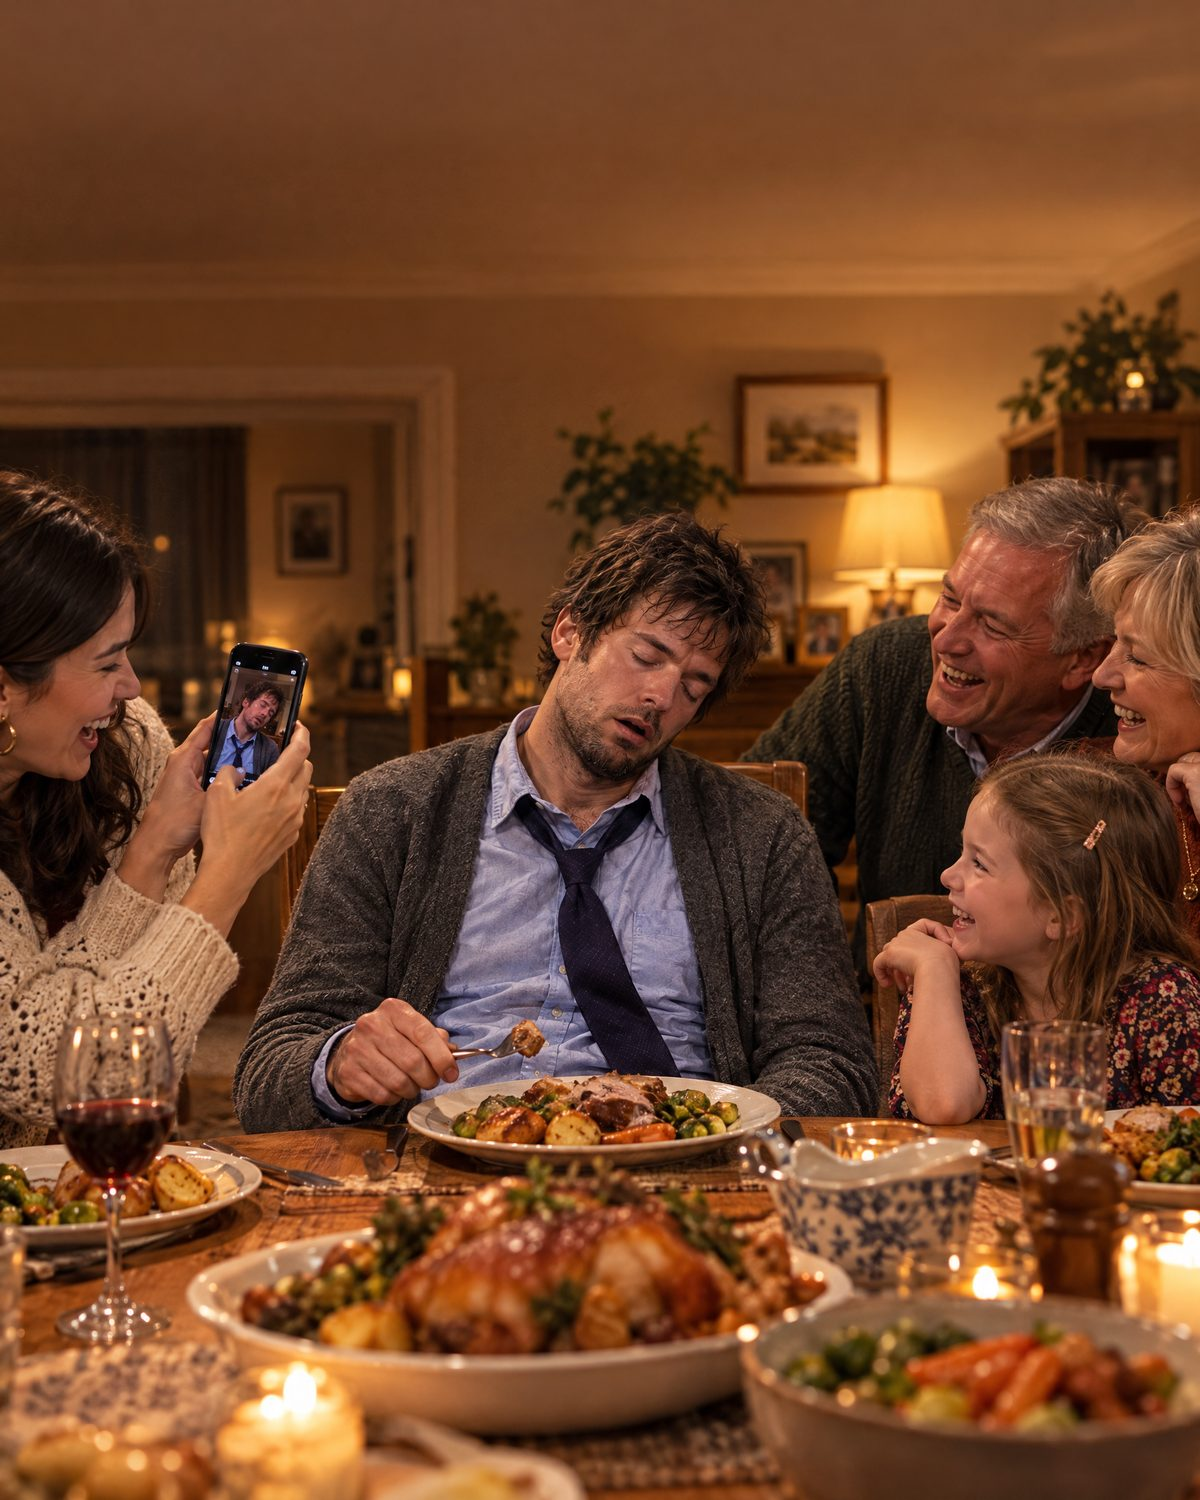
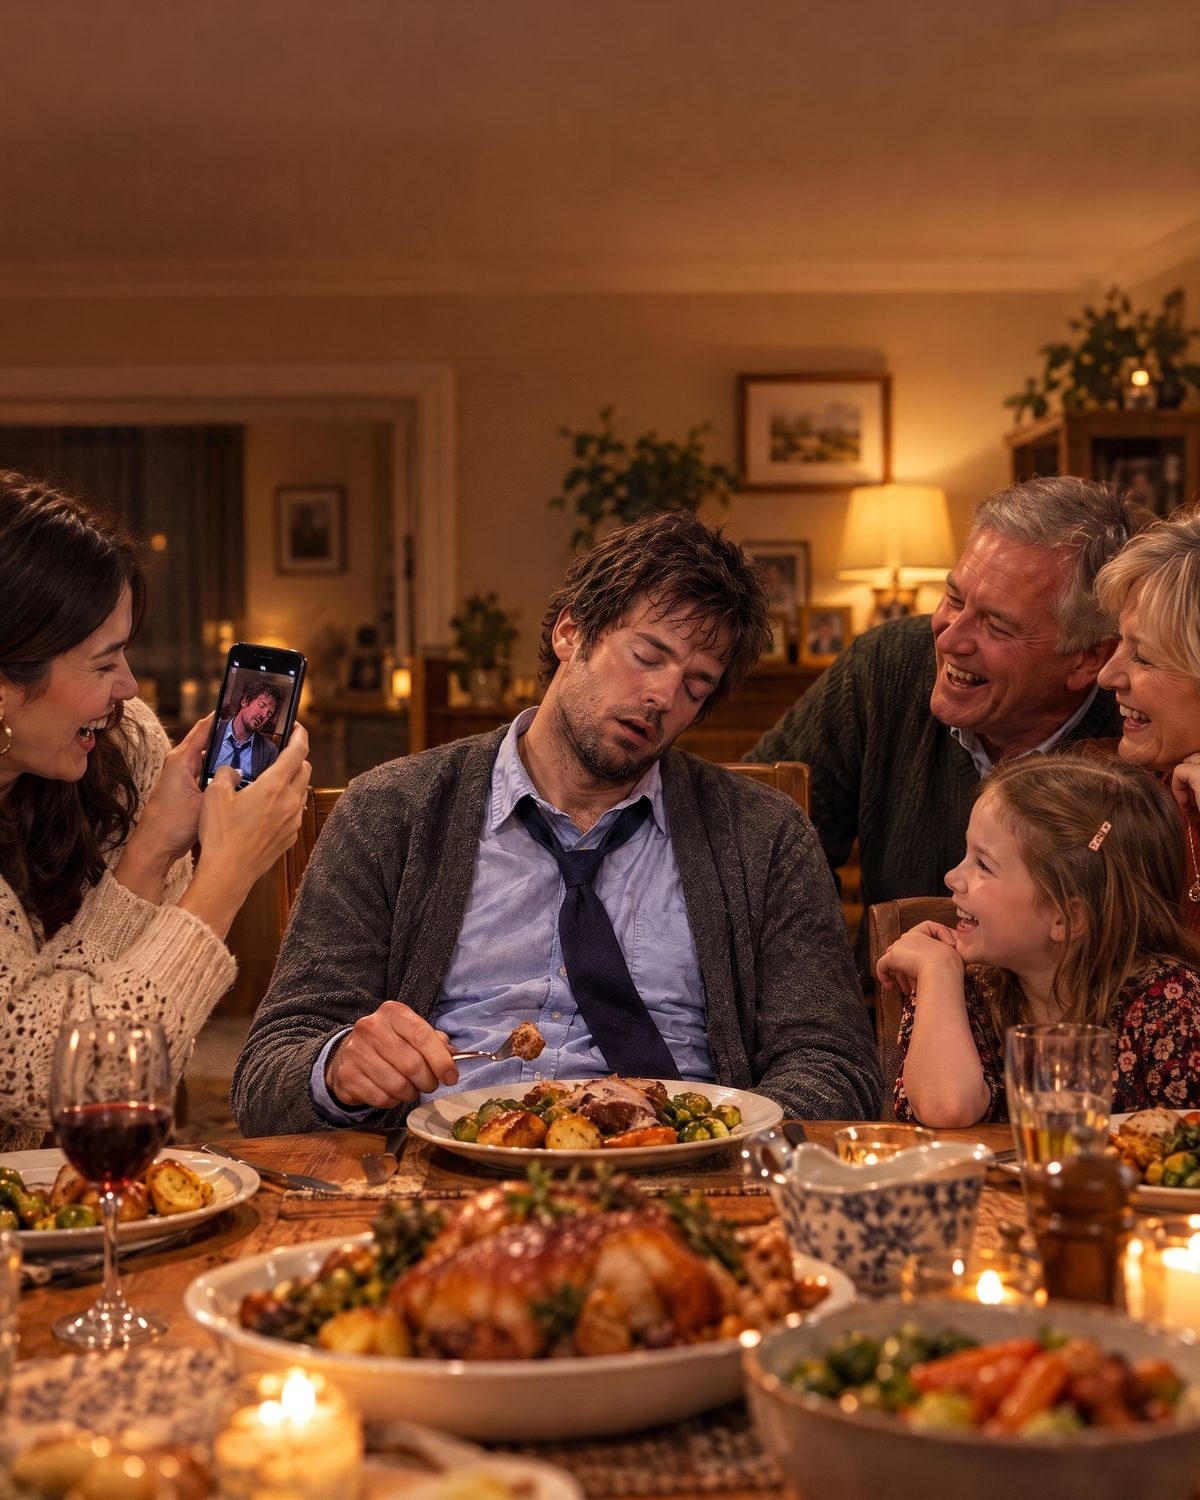
Update: sleepare-review-b-bwrm (by equipo via noetic-proposals-mcp)

diff --git a/sleepare-review-b-bwrm/index.html b/sleepare-review-b-bwrm/index.html
@@ -236,7 +236,7 @@ section{position:relative;overflow:hidden}
 <div class="fanbox" aria-hidden="true"><div class="fan fan-0"><figure class="sp-ad " role="img" aria-label="Saturday 11:58 p.m.. Right after the wedding."><img class="sp-bg" src="assets/ads/r01_wedding.jpg" alt="" loading="lazy" style="object-position:50% 78%"><div class="sp-scrim tb"></div>
 <div class="sp-in"><div class="sp-top"><span class="sp-logo white"></span>
 <div style="height:calc(var(--u)*40)"></div><p class="sp-k">Saturday</p><p class="sp-time white sp-shadow">11:58 p.m.</p><p class="sp-h s coral sp-shadow" style="margin-top:calc(var(--u)*20)">Right after the wedding.</p></div>
-<div class="sp-row"><p class="sp-sub white sp-shadow">Your free time is our business&nbsp;hours.</p><span class="sp-pill">Book a visit</span></div></div></figure></div><div class="fan fan-1"><figure class="sp-ad " role="img" aria-label="Sleepy Tom finale. At SleePare, finally."><img class="sp-bg" src="assets/ads/tom_finale.jpg" alt="" loading="lazy" style="object-position:50% 70%"><div class="sp-scrim tb"></div>
+<div class="sp-row"><p class="sp-sub white sp-shadow">Your free time is our business&nbsp;hours.</p><span class="sp-pill">Book a visit</span></div></div></figure></div><div class="fan fan-1"><figure class="sp-ad " role="img" aria-label="Sleepy Tom finale. At SleePare, finally."><img class="sp-bg" src="assets/ads/tom_finale.jpg?v=2" alt="" loading="lazy" style="object-position:50% 70%"><div class="sp-scrim tb"></div>
 <div class="sp-in"><div class="sp-top"><span class="sp-tag">FINALE</span>
 <p class="sp-h l white sp-shadow" style="margin-top:calc(var(--u)*6)">At SleePare, <span class="amber">finally.</span></p></div>
 <div class="sp-bot"><p class="sp-sub white sp-shadow">Now he can try mattresses anytime on weekends.</p>
@@ -373,19 +373,19 @@ section{position:relative;overflow:hidden}
 <div><p>There’s just one problem. For someone who sleeps everywhere, Tom has never found the right mattress.</p><p class="until">Until now.</p></div>
 </div>
 <div style="display:flex;flex-direction:column;gap:20px"><span class="k">A day in Tom’s life · the episodes</span>
-<div class="ad-grid g5"><div class="ad-cell "><figure class="sp-ad " role="img" aria-label="Sleepy Tom EP. 01. On the subway."><img class="sp-bg" src="assets/ads/tom_subway.jpg" alt="" loading="lazy" style="object-position:50% 60%"><div class="sp-scrim tb"></div>
+<div class="ad-grid g5"><div class="ad-cell "><figure class="sp-ad " role="img" aria-label="Sleepy Tom EP. 01. On the subway."><img class="sp-bg" src="assets/ads/tom_subway.jpg?v=2" alt="" loading="lazy" style="object-position:50% 60%"><div class="sp-scrim tb"></div>
 <div class="sp-in"><div class="sp-top"><span class="sp-tag">EP. 01</span><p class="sp-k" style="margin-top:calc(var(--u)*6)">Meet Sleepy Tom</p>
 <p class="sp-h l white sp-shadow">On the subway.</p></div>
-<div class="sp-row" style="align-items:center"><span class="sp-logo white"></span></div></div></figure><p class="ad-cap">Ep. 01 · 4:5</p></div><div class="ad-cell "><figure class="sp-ad light" role="img" aria-label="Sleepy Tom EP. 02. At his desk."><img class="sp-bg" src="assets/ads/tom_desk.jpg" alt="" loading="lazy" style="object-position:50% 60%"><div class="sp-scrim" style="background:linear-gradient(180deg,rgba(250,246,238,.88) 0%,rgba(250,246,238,.5) 26%,rgba(250,246,238,0) 44%),linear-gradient(0deg,rgba(15,19,48,.8) 0%,rgba(15,19,48,0) 24%)"></div>
+<div class="sp-row" style="align-items:center"><span class="sp-logo white"></span></div></div></figure><p class="ad-cap">Ep. 01 · 4:5</p></div><div class="ad-cell "><figure class="sp-ad light" role="img" aria-label="Sleepy Tom EP. 02. At his desk."><img class="sp-bg" src="assets/ads/tom_desk.jpg?v=2" alt="" loading="lazy" style="object-position:50% 60%"><div class="sp-scrim" style="background:linear-gradient(180deg,rgba(250,246,238,.88) 0%,rgba(250,246,238,.5) 26%,rgba(250,246,238,0) 44%),linear-gradient(0deg,rgba(15,19,48,.8) 0%,rgba(15,19,48,0) 24%)"></div>
 <div class="sp-in"><div class="sp-top"><span class="sp-tag">EP. 02</span><p class="sp-k" style="margin-top:calc(var(--u)*6)">Meet Sleepy Tom</p>
 <p class="sp-h l royal">At his desk.</p></div>
-<div class="sp-row" style="align-items:center"><span class="sp-logo white"></span></div></div></figure><p class="ad-cap">Ep. 02 · 4:5</p></div><div class="ad-cell "><figure class="sp-ad " role="img" aria-label="Sleepy Tom EP. 03. At family dinner."><img class="sp-bg" src="assets/ads/tom_dinner.jpg" alt="" loading="lazy" style="object-position:50% 70%"><div class="sp-scrim tb"></div>
+<div class="sp-row" style="align-items:center"><span class="sp-logo white"></span></div></div></figure><p class="ad-cap">Ep. 02 · 4:5</p></div><div class="ad-cell "><figure class="sp-ad " role="img" aria-label="Sleepy Tom EP. 03. At family dinner."><img class="sp-bg" src="assets/ads/tom_dinner.jpg?v=2" alt="" loading="lazy" style="object-position:50% 70%"><div class="sp-scrim tb"></div>
 <div class="sp-in"><div class="sp-top"><span class="sp-tag">EP. 03</span><p class="sp-k" style="margin-top:calc(var(--u)*6)">Meet Sleepy Tom</p>
 <p class="sp-h l white sp-shadow">At family dinner.</p></div>
-<div class="sp-row" style="align-items:center"><span class="sp-logo white"></span></div></div></figure><p class="ad-cap">Ep. 03 · 4:5</p></div><div class="ad-cell "><figure class="sp-ad " role="img" aria-label="Sleepy Tom EP. 04. On a park bench."><img class="sp-bg" src="assets/ads/tom_bench.jpg" alt="" loading="lazy" style="object-position:50% 70%"><div class="sp-scrim tb"></div>
+<div class="sp-row" style="align-items:center"><span class="sp-logo white"></span></div></div></figure><p class="ad-cap">Ep. 03 · 4:5</p></div><div class="ad-cell "><figure class="sp-ad " role="img" aria-label="Sleepy Tom EP. 04. On a park bench."><img class="sp-bg" src="assets/ads/tom_bench.jpg?v=2" alt="" loading="lazy" style="object-position:50% 70%"><div class="sp-scrim tb"></div>
 <div class="sp-in"><div class="sp-top"><span class="sp-tag">EP. 04</span><p class="sp-k" style="margin-top:calc(var(--u)*6)">Meet Sleepy Tom</p>
 <p class="sp-h l white sp-shadow">On a park bench.</p></div>
-<div class="sp-row" style="align-items:center"><span class="sp-logo white"></span></div></div></figure><p class="ad-cap">Ep. 04 · 4:5</p></div><div class="ad-cell "><figure class="sp-ad " role="img" aria-label="Sleepy Tom finale. At SleePare, finally."><img class="sp-bg" src="assets/ads/tom_finale.jpg" alt="" loading="lazy" style="object-position:50% 70%"><div class="sp-scrim tb"></div>
+<div class="sp-row" style="align-items:center"><span class="sp-logo white"></span></div></div></figure><p class="ad-cap">Ep. 04 · 4:5</p></div><div class="ad-cell "><figure class="sp-ad " role="img" aria-label="Sleepy Tom finale. At SleePare, finally."><img class="sp-bg" src="assets/ads/tom_finale.jpg?v=2" alt="" loading="lazy" style="object-position:50% 70%"><div class="sp-scrim tb"></div>
 <div class="sp-in"><div class="sp-top"><span class="sp-tag">FINALE</span>
 <p class="sp-h l white sp-shadow" style="margin-top:calc(var(--u)*6)">At SleePare, <span class="amber">finally.</span></p></div>
 <div class="sp-bot"><p class="sp-sub white sp-shadow">Now he can try mattresses anytime on weekends.</p>
